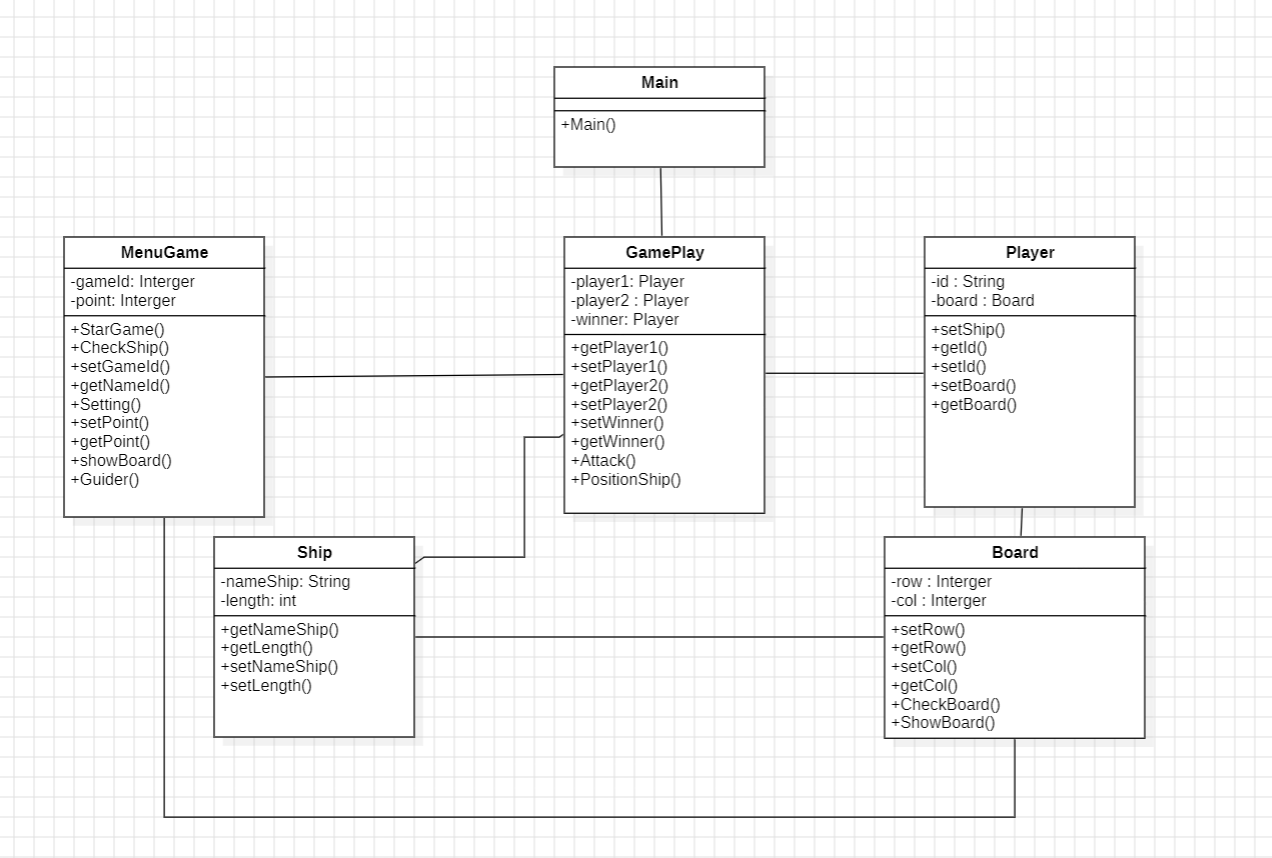
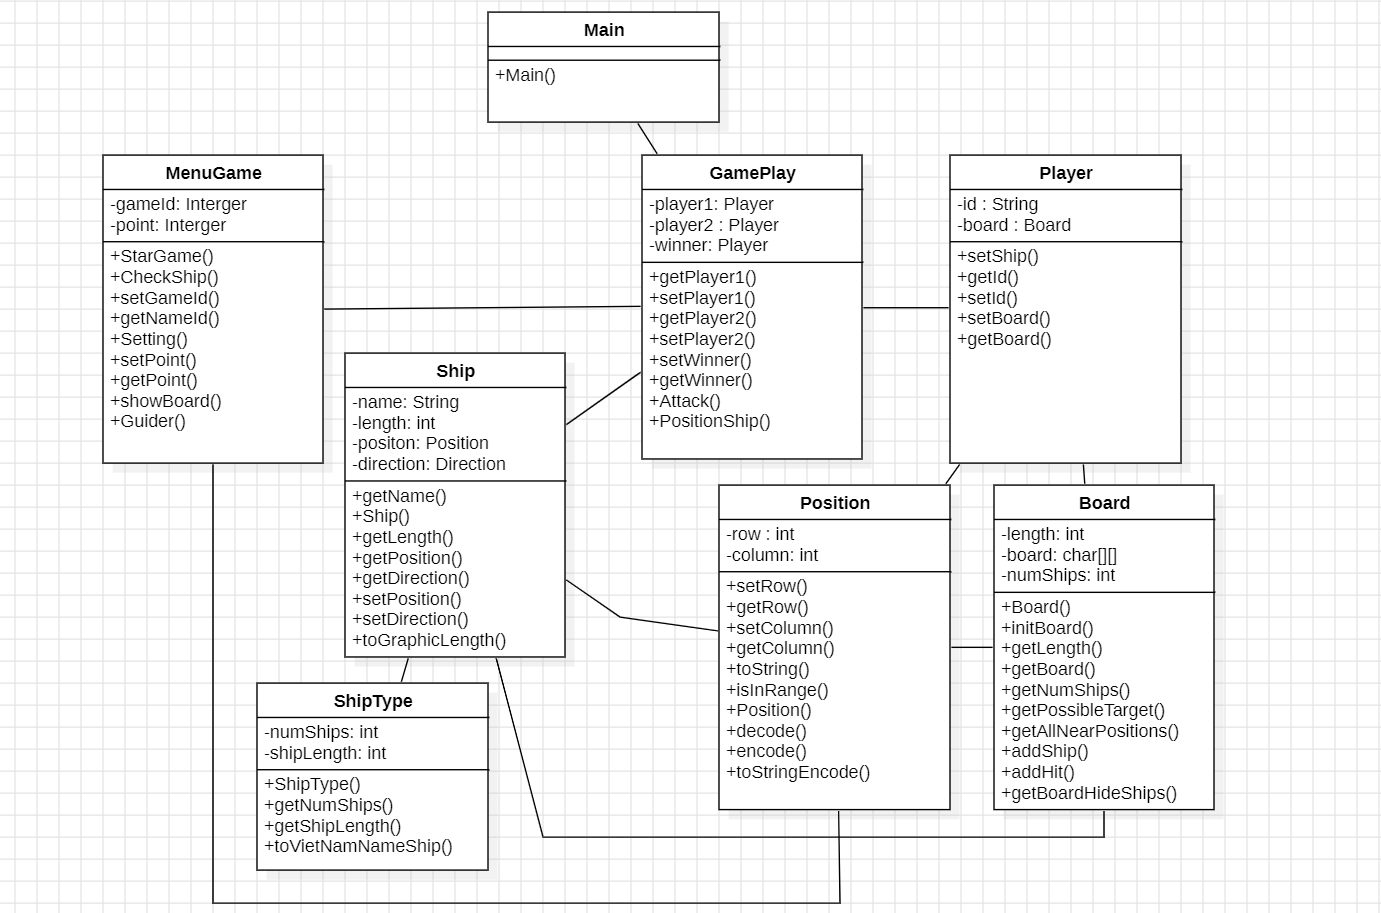
Cập nhật lại Class diagram và MVP

diff --git a/Mộc Thu Huyền/Product/src/SeaBattle/board/Direction.java b/Mộc Thu Huyền/Product/src/SeaBattle/board/Direction.java
@@ -8,12 +8,12 @@ public enum Direction {
     public static Direction decode(char c) throws DirectionException {
         if (c == 'h' || c == 'H') return HORIZONTAL;
         else if (c == 'v' || c == 'V') return VERTICAL;
-        else throw new DirectionException("Il carattere '"+c+"' non può essere convertito in una direzione");
+        else throw new DirectionException("The character '"+c+"' cannot be converted in a direction");
     }
 
     public static Direction decode(String str) throws DirectionException {
         if (str.toLowerCase().equals("horizontal")) return HORIZONTAL;
         else if (str.toLowerCase().equals("vertical")) return VERTICAL;
-        else throw new DirectionException("La stringa '"+str+"' non può essere convertita in una direzione");
+        else throw new DirectionException("The string '"+str+"' cannot be converted in a direction");
     }
 }

diff --git a/Mộc Thu Huyền/Product/src/SeaBattle/board/Position.java b/Mộc Thu Huyền/Product/src/SeaBattle/board/Position.java
@@ -1,8 +1,8 @@
 package SeaBattle.board;
 
 public class Position {
-    private final int row;
-    private final int column;
+    private int row;
+    private int column;
 
     public Position(int row, int column) throws PositionException {
         if (row < 0 || column < 0)

diff --git a/Mộc Thu Huyền/Product/src/SeaBattle/board/Ship.java b/Mộc Thu Huyền/Product/src/SeaBattle/board/Ship.java
@@ -1,8 +1,8 @@
 package SeaBattle.board;
 
 public class Ship {
-    private final String name;
-    private final int length;
+    private String name;
+    private int length;
     private Position position;
     private Direction direction;
 
